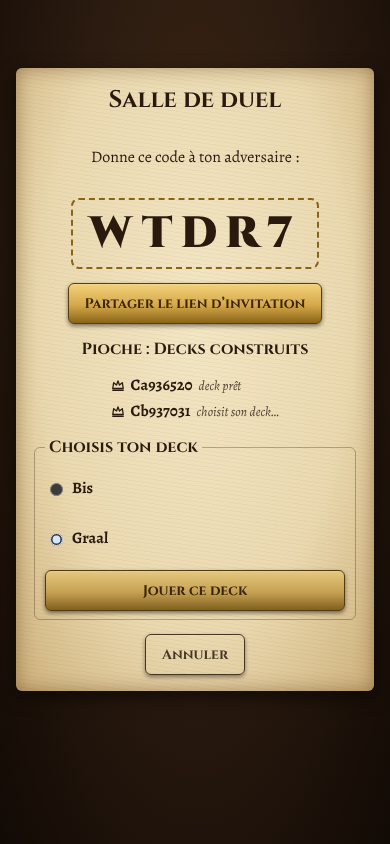
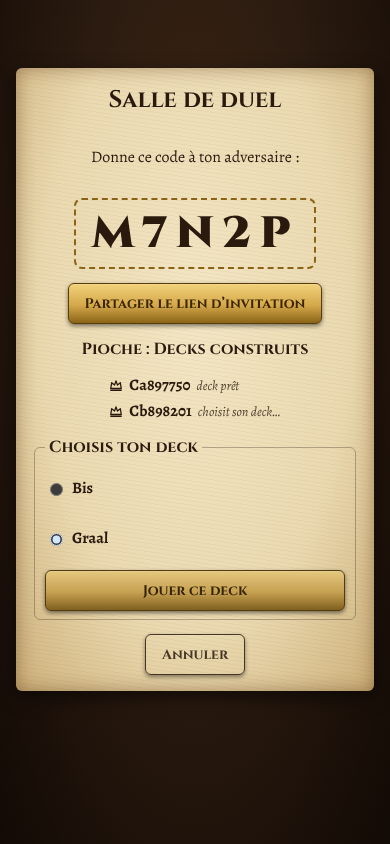
fix(client): a card without an action is no longer a button
On the table, terrain and spell cards sat inside the slot's own button, and a
button may not contain another (React warned on every run; taps could land on
the wrong element). CardView renders a span with role img when it has no
onClick. The target-prompt e2e also gets the 120 s budget of the other long
tests (it plays turns until a card asks for targets).

Claude-Session: https://claude.ai/code/session_01CgLgPX5hyGcLDiLSSixTS4

diff --git a/apps/client/src/ui/CardView.tsx b/apps/client/src/ui/CardView.tsx
@@ -170,9 +170,14 @@ export function CardView({ card, stats, statuses = [], sick, cycle, size = 'boar
   const multi = stats?.bodies;
   // story 13.3: on the table, a modified badge shows how many sources change it
   const srcN = size === 'board' ? sourceCounts(stats?.sources) : { atk: 0, hp: 0 };
+  // a stable tag (not a component made here), so React keeps the card's DOM between renders
+  const Root = onClick ? 'button' : 'span';
+  const rootProps = onClick ? { type: 'button' as const, onClick } : { role: 'img' };
   const cls = ['card', `card-${size}`, CATEGORY_TOKEN[card.category]?.cls ?? '', RARITY_CLASS[card.rarity] ?? '', state ? `is-${state}` : '', dying ? 'is-dying' : '', leaving ? 'is-leaving' : '', statuses.some((s) => s.kind === 'silence') ? 'is-silenced' : ''].join(' ');
   return (
-    <button type="button" className={cls} onClick={onClick} data-iid={iid} aria-label={label ?? card.name} style={style}>
+    // a card without an action is not a button: on the table it sits inside the slot's own button, and a button may not
+    // contain another one (invalid HTML, taps could land on the wrong element)
+    <Root {...rootProps} className={cls} data-iid={iid} aria-label={label ?? card.name} style={style}>
       <span className="card-frame">
         <span className="card-name">{card.name}</span>
         <span className="card-art">{art ? <img src={art} alt="" draggable={false} /> : null}</span>
@@ -237,7 +242,7 @@ export function CardView({ card, stats, statuses = [], sick, cycle, size = 'boar
         </>
       ) : null}
       {statuses.some((s) => s.kind === 'silence') ? <Chains /> : null}
-    </button>
+    </Root>
   );
 }
 

diff --git a/e2e/target-prompt.spec.ts b/e2e/target-prompt.spec.ts
@@ -25,6 +25,8 @@ async function clearPopups(page: Page) {
 }
 
 test('hot seat: an arrival effect asks for up to N targets, and "Aucune cible" skips it', async ({ page }) => {
+  // it plays turns until a card asks for targets: under parallel load that can outlast the default 60 s
+  test.setTimeout(120_000);
   await page.addInitScript(seeded);
   await page.goto('/');
   await page.getByRole('button', { name: 'Duel à deux sur ce téléphone' }).click();
